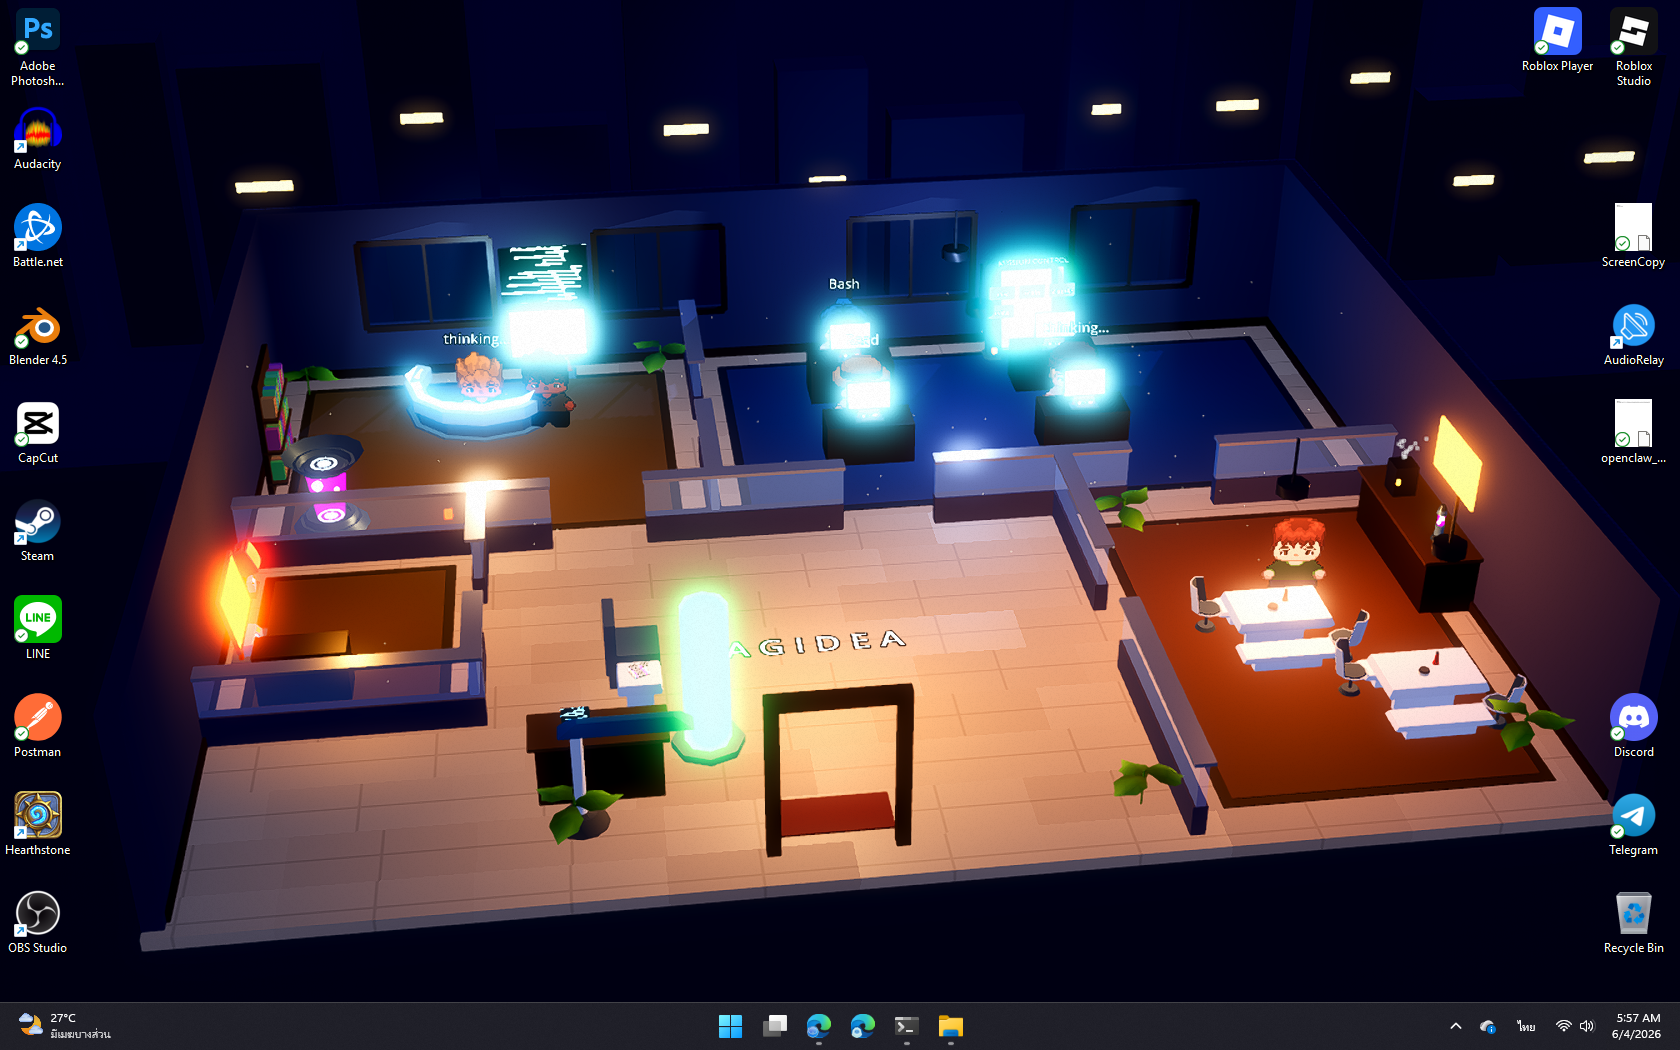
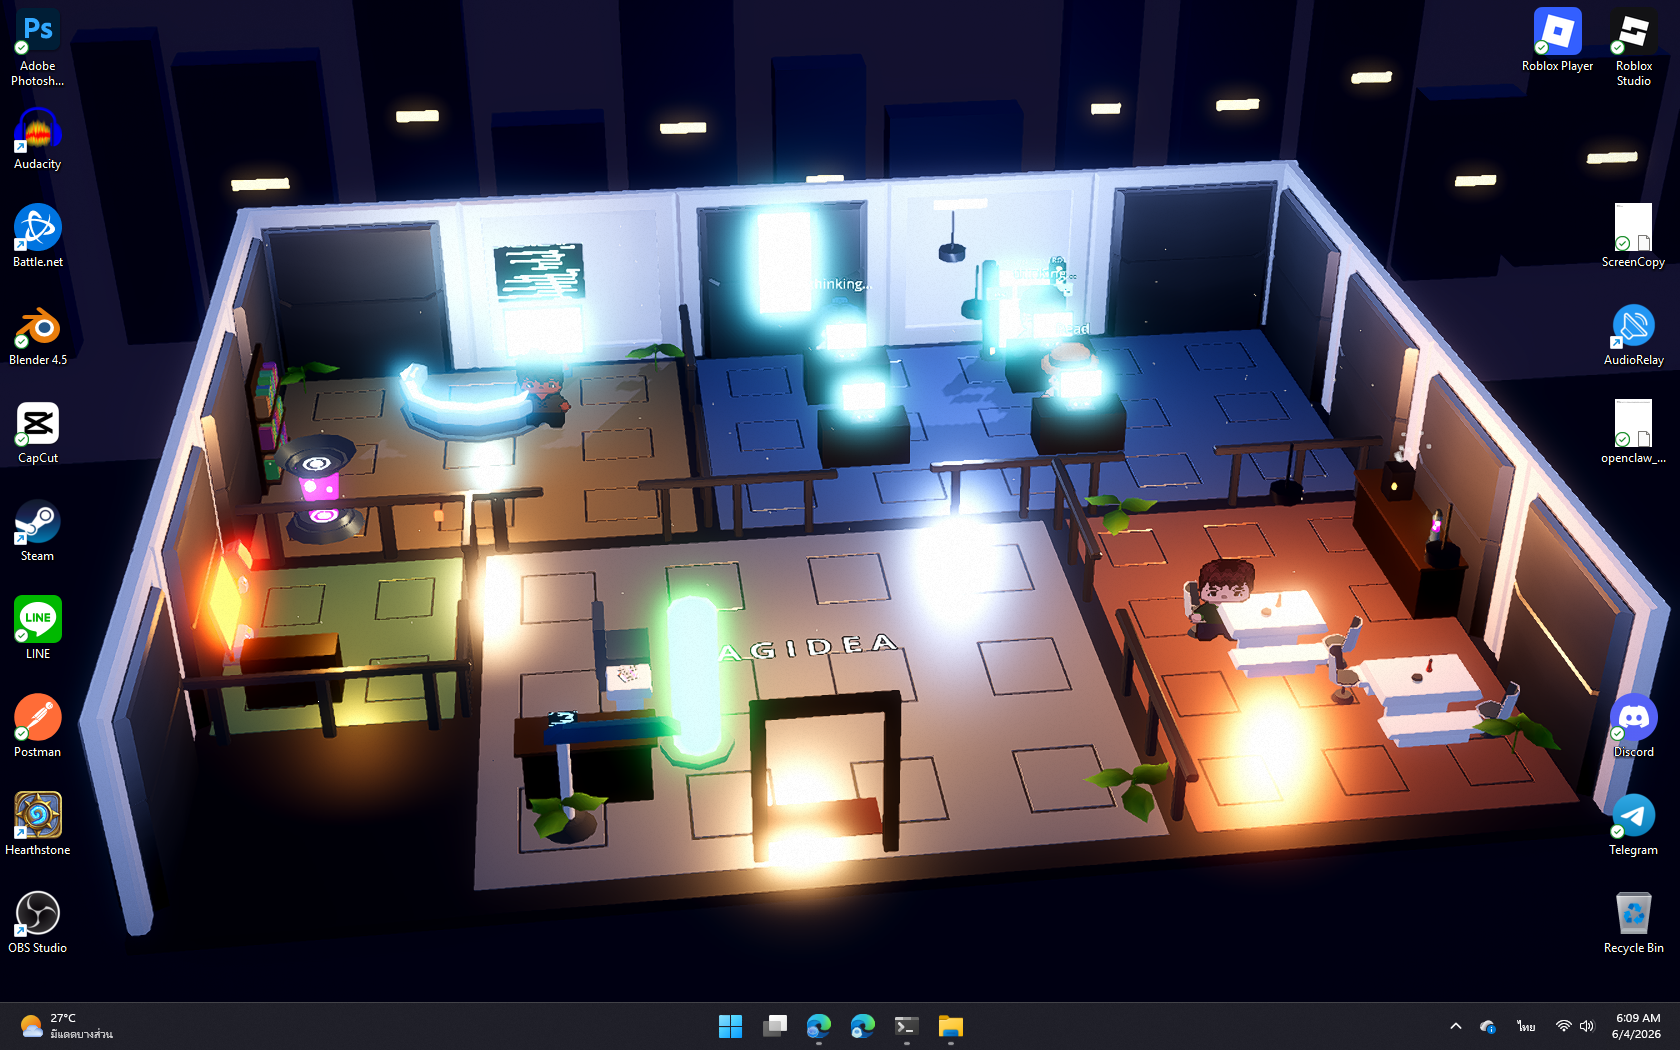
Full kit architecture: walls, glass window bays, railings, tinted floors
- Perimeter rebuilt from Molten Maps wall segments: north = solid/glass
  alternation (two full-height window bays, shadows off so sun pours
  through) + wall display; west/east solid runs
- Inner partitions = Railing_Flat stretched onto the original segment
  plan (door gaps preserved, 1.13m height matches the old partitions)
- Floors = plain Floor_Metal_Square tiles zone-keyed by subtle material
  tints (carpet tiles read as candy-board - rejected after testing)
- God-ray cards repositioned to the two glass bays; saturation rebalanced
- Still 6.0% GPU at the wallpaper rung

diff --git a/README.md b/README.md
@@ -262,7 +262,7 @@ The `docs/` folder is a complete V1 product-design specification written before 
 
 - [x] Character art — Schwarnhild spritesheets + custom-character compositor (procedural fallback kept)
 - [x] Environment furniture — Molten Maps sci-fi 3D models (consoles, monitors, briefing screen, cafeteria…)
-- [ ] Full environment rebuild on the kit's wall/floor tile system (current shell is still CSG)
+- [x] Full kit shell — walls (solid + glass window bays), railing partitions, zone-tinted metal floors
 - [ ] Replay Theater — scrub & re-enact any past mission from the journal
 - [ ] Meeting-room choreography for multi-agent collaboration
 - [ ] More zones (Research Lab, Dev Studio, Dormitory, Archive Library…)